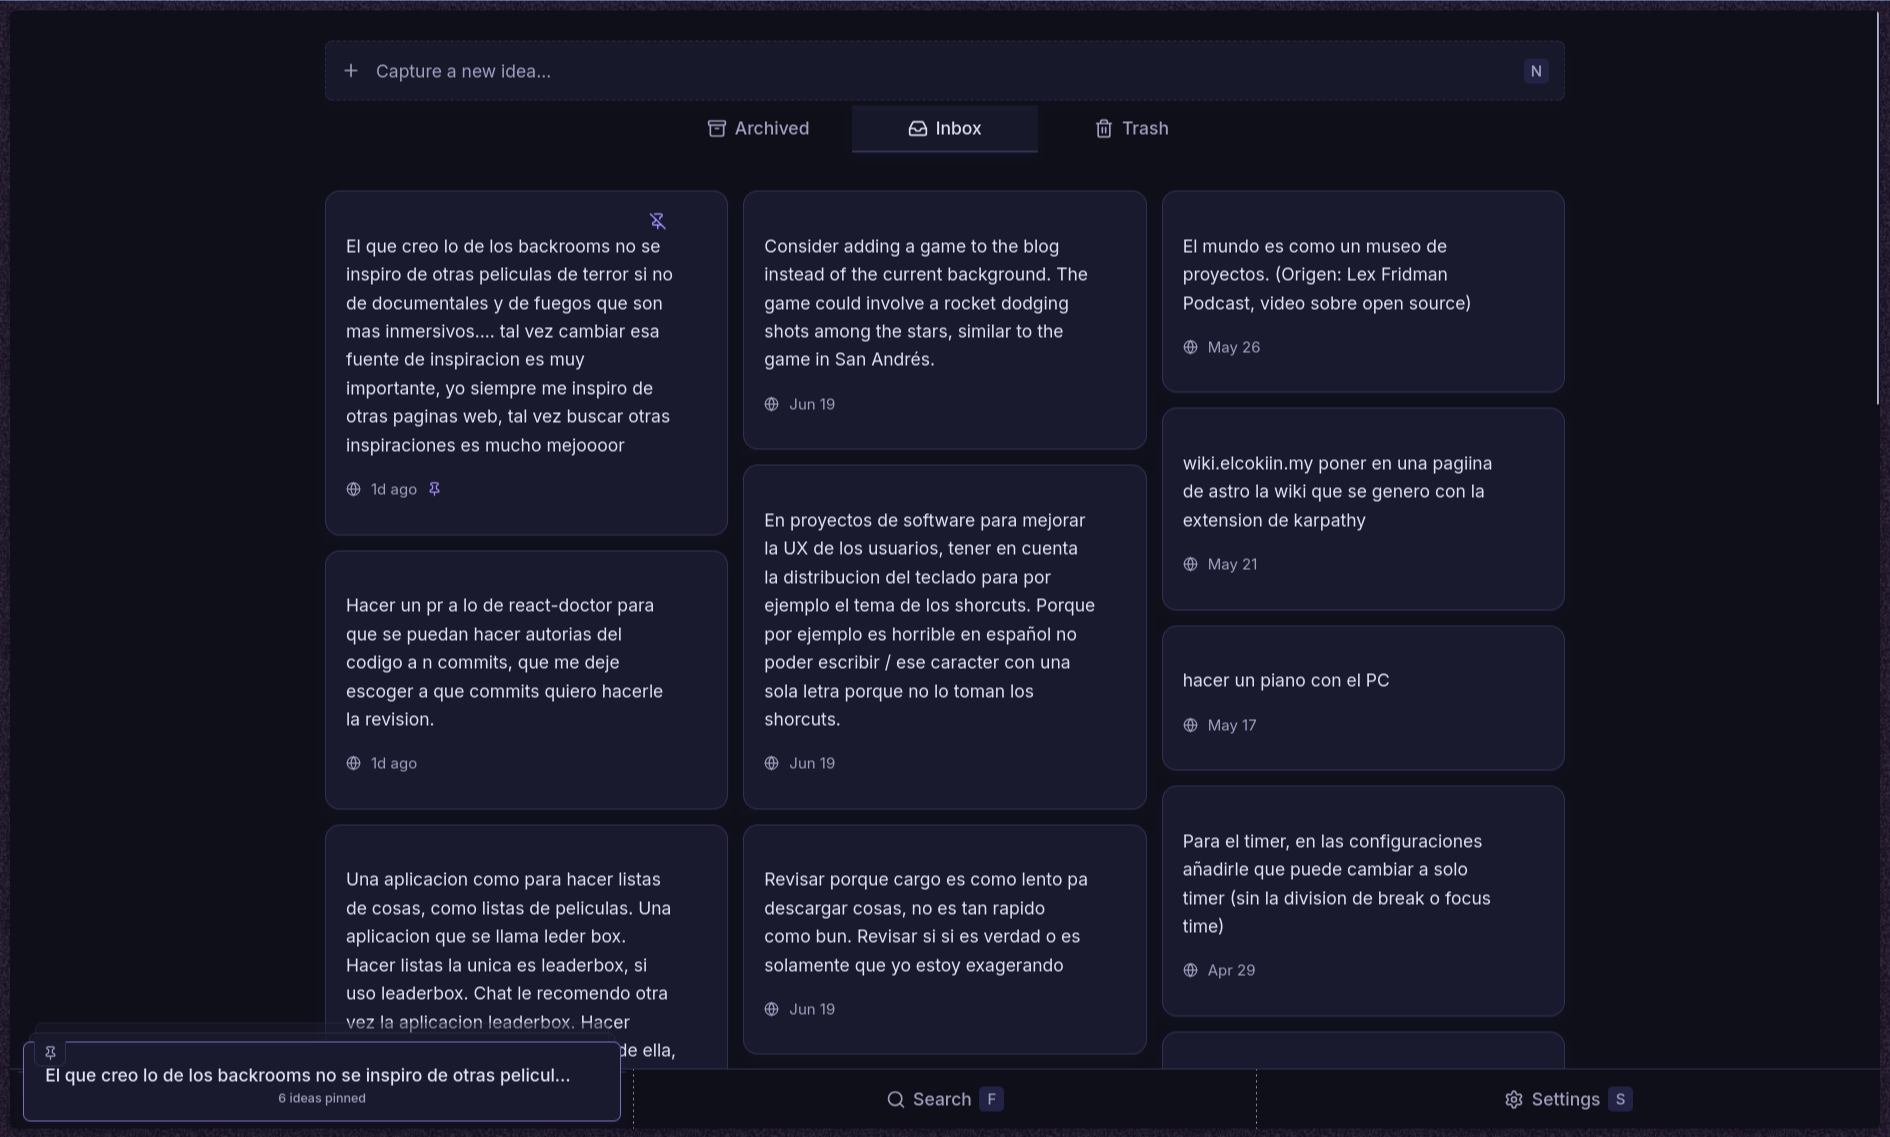
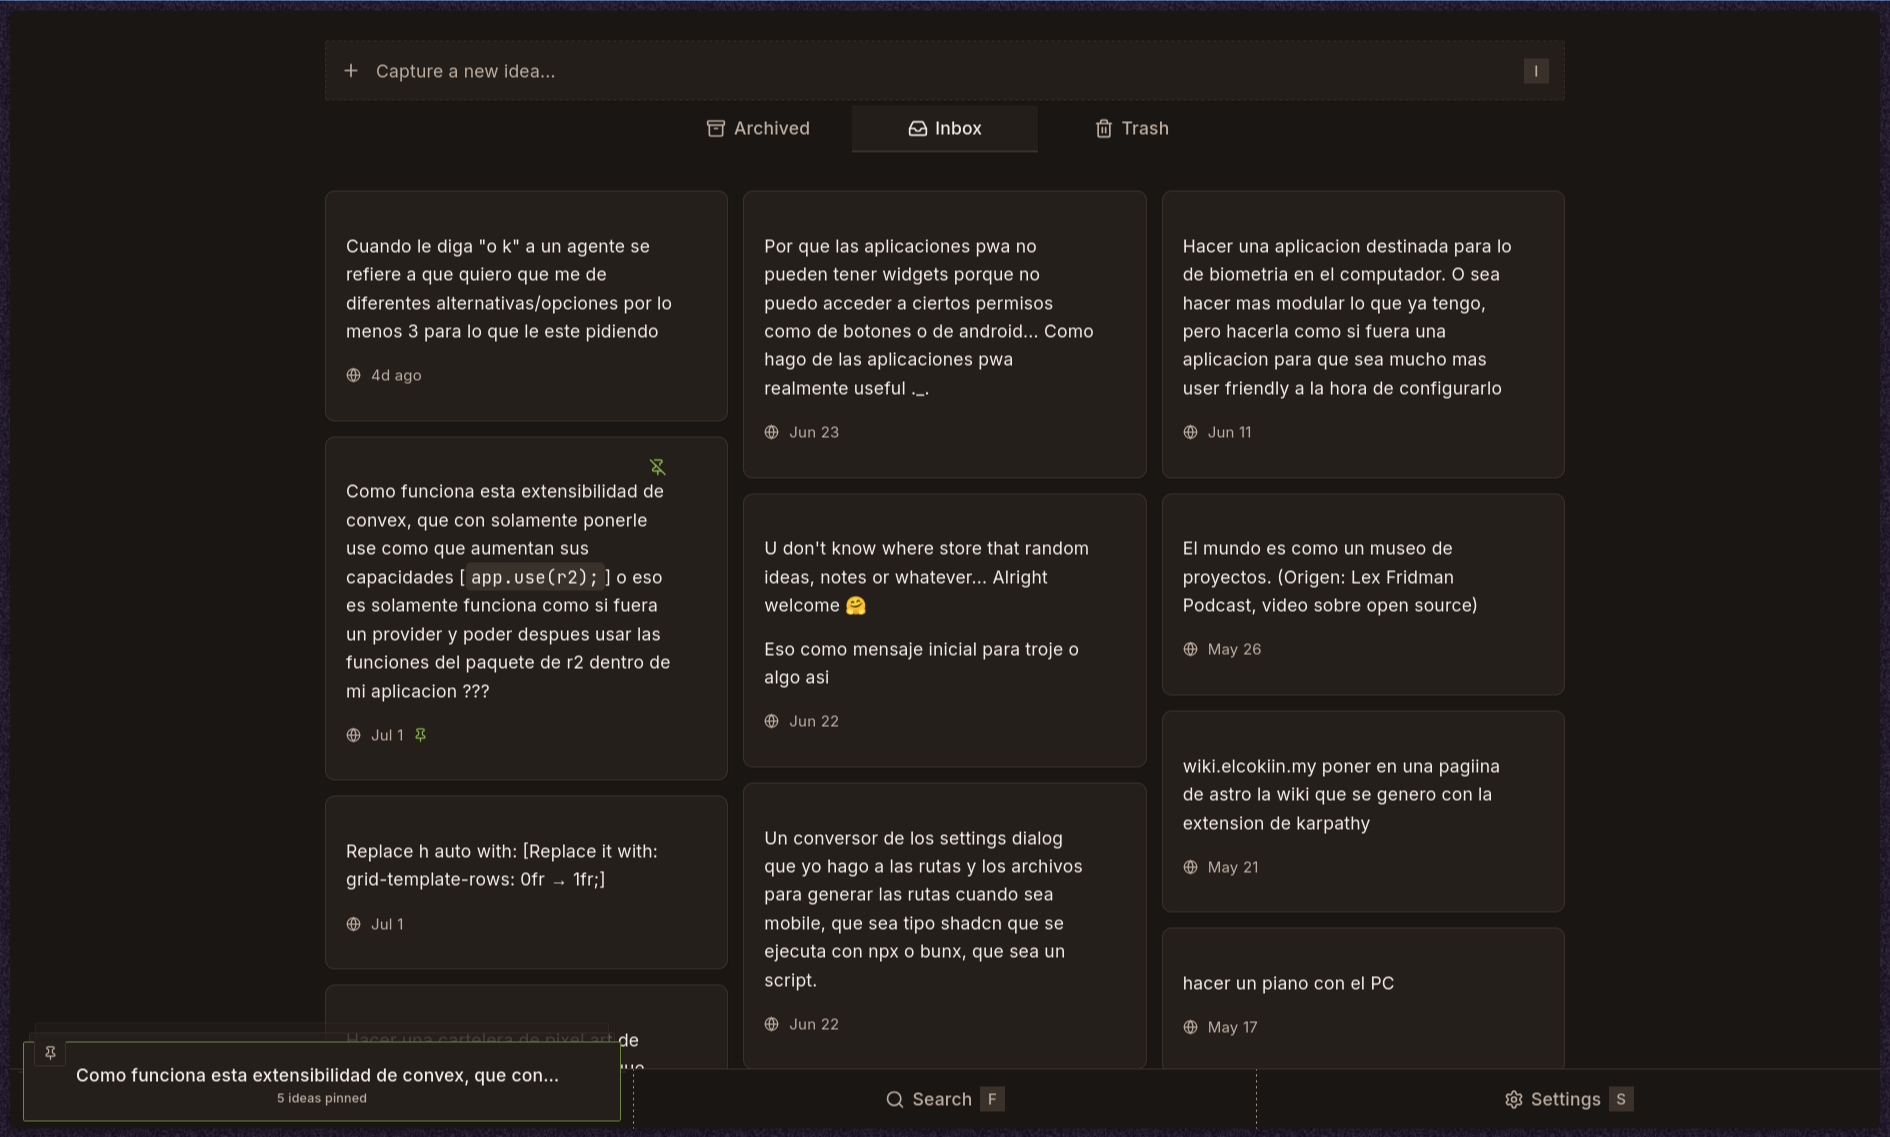
change readme images
.

diff --git a/README.md b/README.md
@@ -1,5 +1,5 @@
 <p align="center">
-  <img src="public/screenshots/logo-font.jpeg" width="300" alt="Trojes logo" />
+  <img src="public/screenshots/logo-font.png" width="300" alt="Trojes logo" />
 </p>
 
 <p align="center">
@@ -21,7 +21,7 @@ Trojes is an **idea capture** built for the moments inspiration strikes. Optimiz
 |---|
 | ![Main dashboard](public/screenshots/dashboard.png) |
 | **Main dashboard** – ideas in a masonry grid, Inbox/Archived/Trash tabs, and bottom navigation. This is where you spend your time. |
-| <img src="public/screenshots/mobile.jpeg" width="280" alt="Mobile" style="display: block; margin: 0 auto;" /> |
+| <img src="public/screenshots/mobile.png" width="280" alt="Mobile" style="display: block; margin: 0 auto;" /> |
 | **Mobile PWA** – installable on your home screen, icon-only tab navigation, bottom sheet for pinned ideas. |
 
 ---